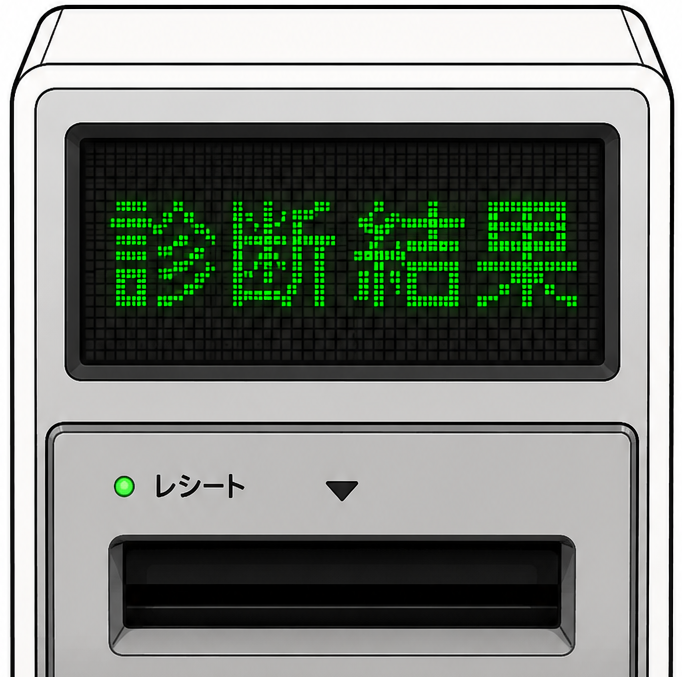
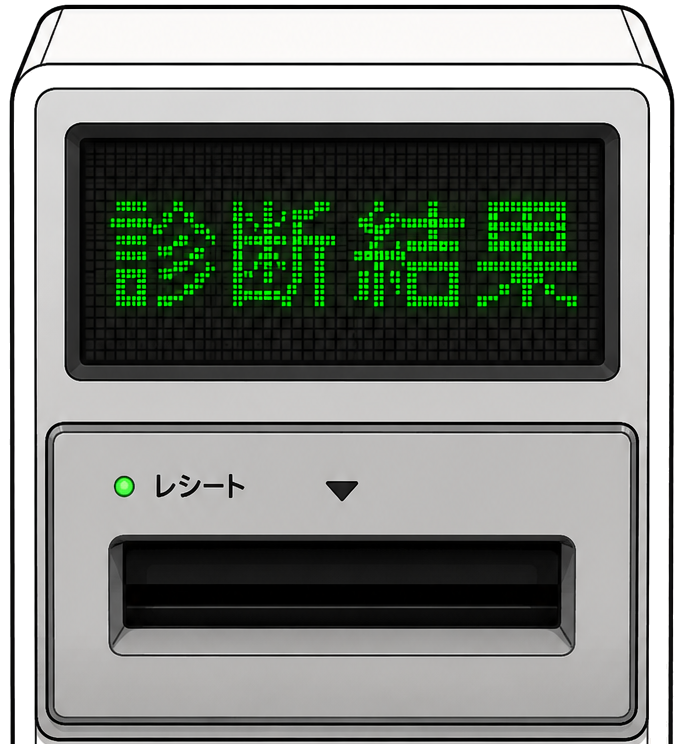
Emit receipt from the machine slot; transparent machine bg, frameless result
- Crop machine to the slit bottom and knock out its white background
- Make result screen frameless so the white receipt stands out on the interior
- Receipt emerges directly from the slot and prints downward

diff --git a/index.html b/index.html
@@ -1158,12 +1158,11 @@
     z-index:1;
     width:300px;
     max-width:82%;
-    margin:-15px auto 16px;
-    background:#fffdf6;
-    border:2px solid #e2d7bf;
-    border-top:none;
-    box-shadow:0 10px 18px rgba(0,0,0,0.2);
-    padding:20px 16px 16px;
+    margin:-14px auto 16px;
+    background:#ffffff;
+    border:1px solid #e6e0d4;
+    box-shadow:0 12px 22px rgba(0,0,0,0.28);
+    padding:22px 18px 18px;
     animation:printOut 1.1s cubic-bezier(.2,.8,.3,1) .55s both;
     transform-origin:top center;
   }
@@ -2450,7 +2449,7 @@ function show(id){
   document.getElementById(id).classList.add("active");
   const _c = document.querySelector(".container");
   _c.classList.toggle("building-mode", id === "screen-title");
-  _c.classList.toggle("intro-mode", id === "screen-intro");
+  _c.classList.toggle("intro-mode", id === "screen-intro" || id === "screen-result");
   document.body.classList.toggle("inside", id !== "screen-title");
   document.body.classList.toggle("show-duct", id === "screen-intro");
   if(id === "screen-intro"){
